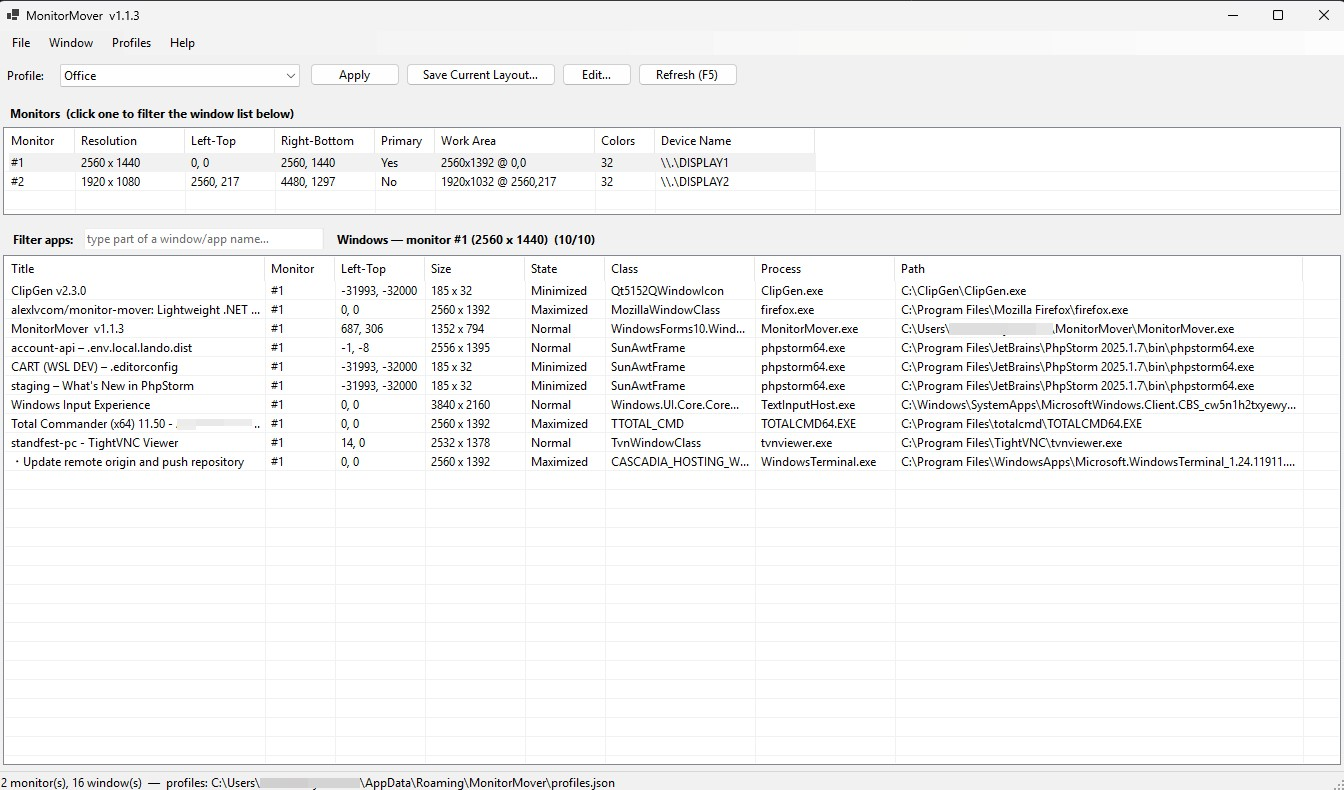
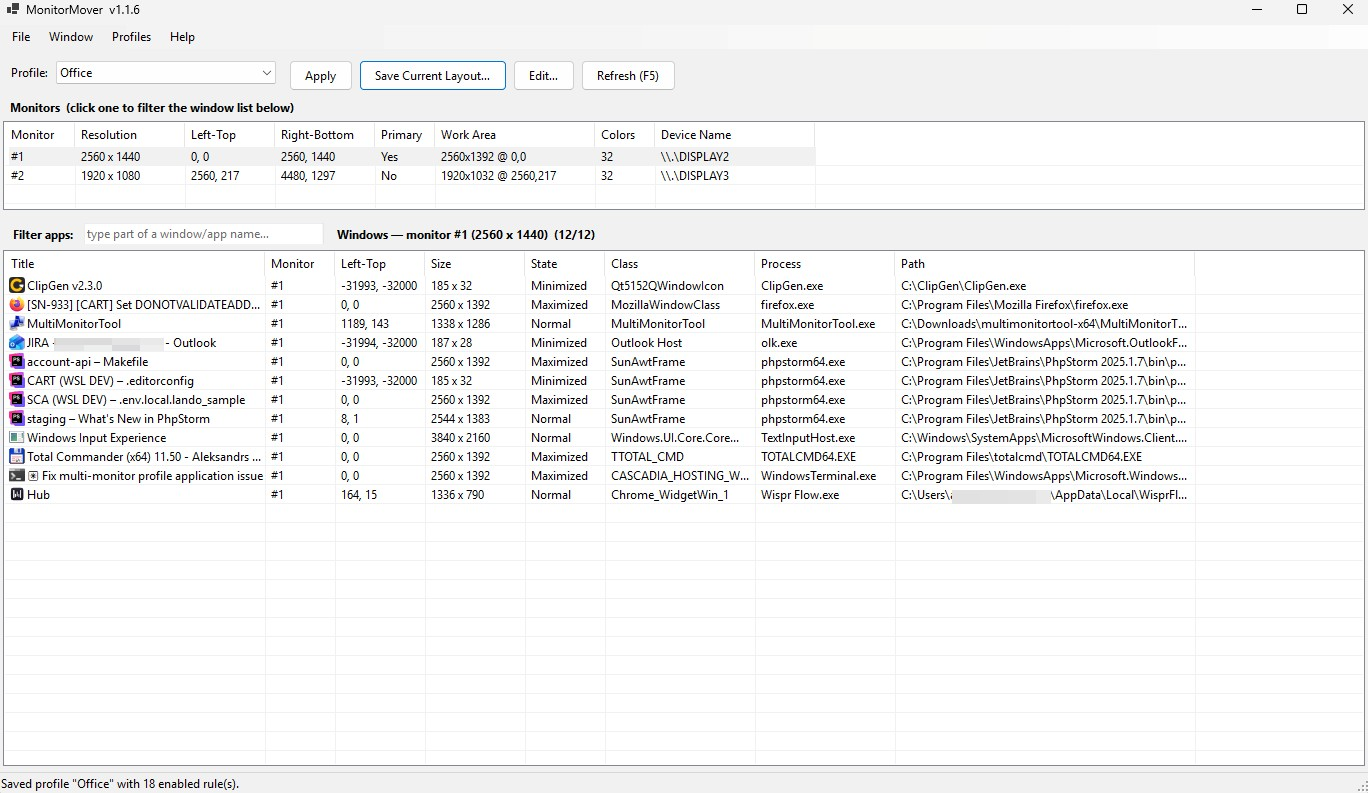
Update screenshot and profile-matching docs
- Refresh README screenshot to show the new per-app icons.
- Correct the profile-matching description: monitors are matched by
  resolution and primary flag first, device name/index only as
  tie-breakers, which survives device-name reassignment on re-dock.

diff --git a/README.md b/README.md
@@ -50,7 +50,7 @@ At the office and at home you have different monitor configurations, so Windows 
 - Save a profile there (**Office**, **Home**, …).
 - Each day, pick the matching profile and hit **Apply** — every listed app jumps to its correct monitor, position, size, and state (normal / maximized).
 
-Profiles are keyed to the monitor layout at capture time and matched back by device name → monitor index → nearest resolution, so they survive small changes.
+Profiles are keyed to the monitor layout at capture time and matched back by resolution and primary flag first, with device name and monitor index only breaking ties. This survives Windows reassigning display device names when monitors are unplugged and reconnected, so applying a profile after a re-dock still sends each window to the right screen.
 
 ## Build
 
